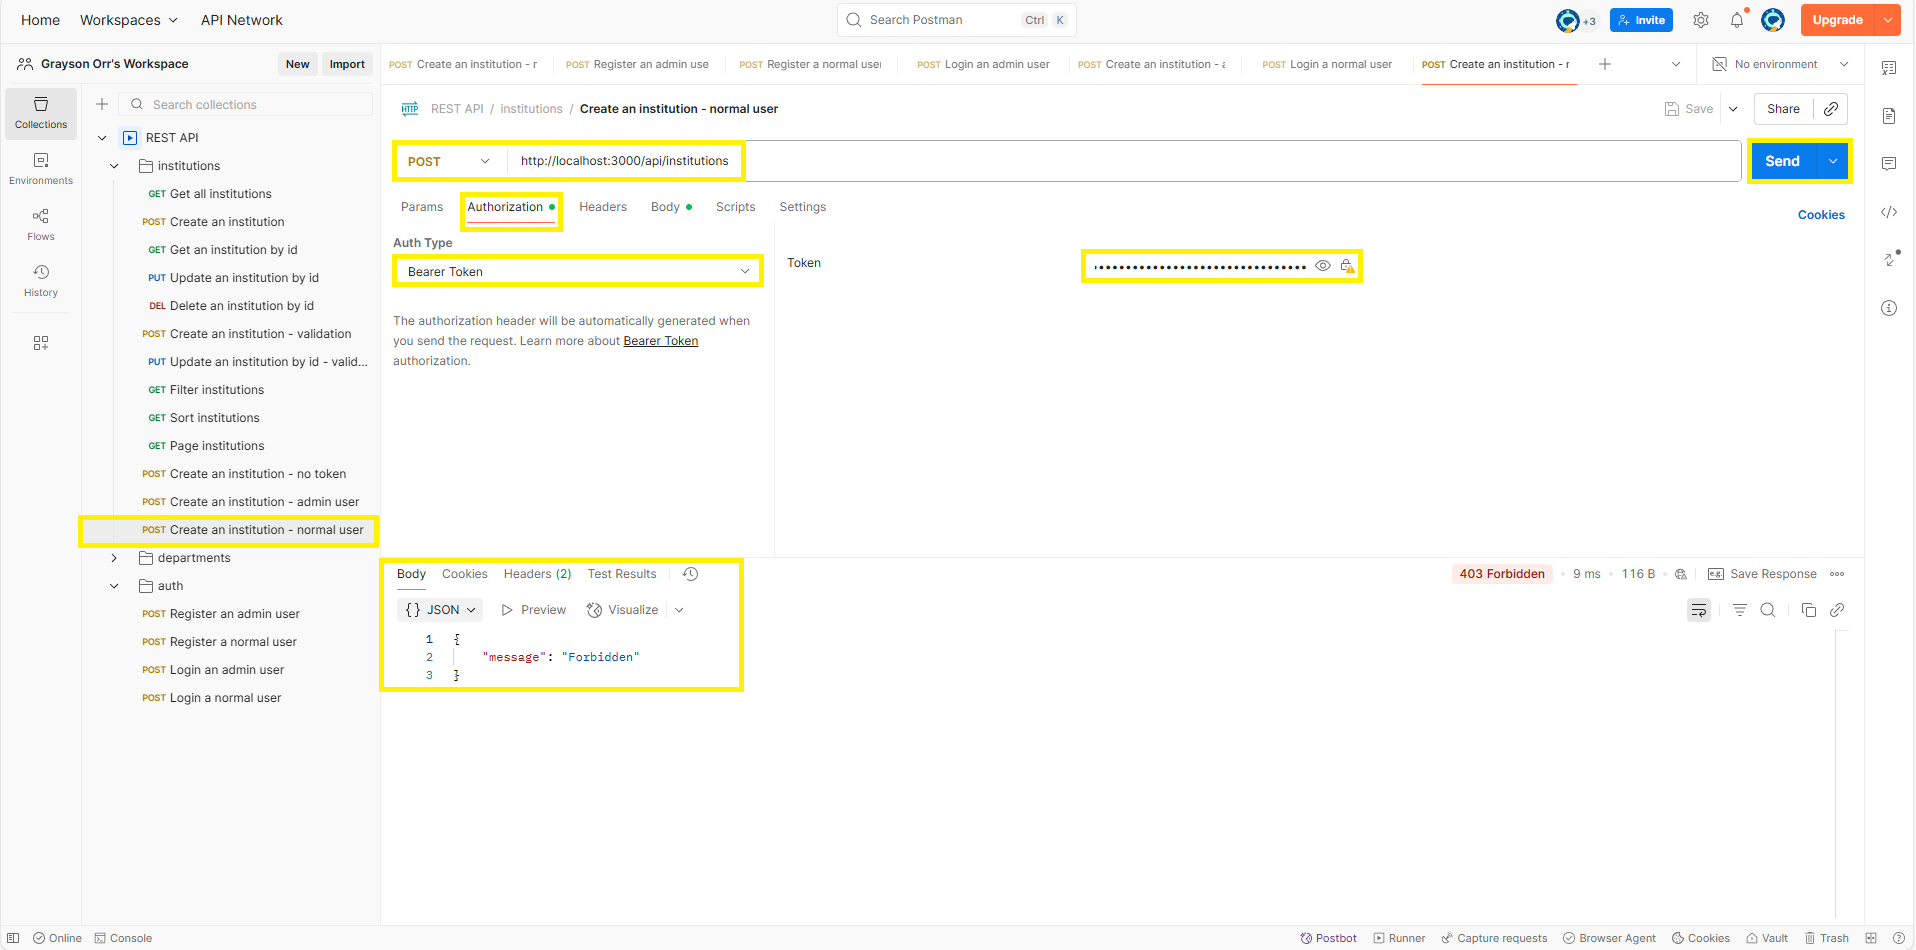
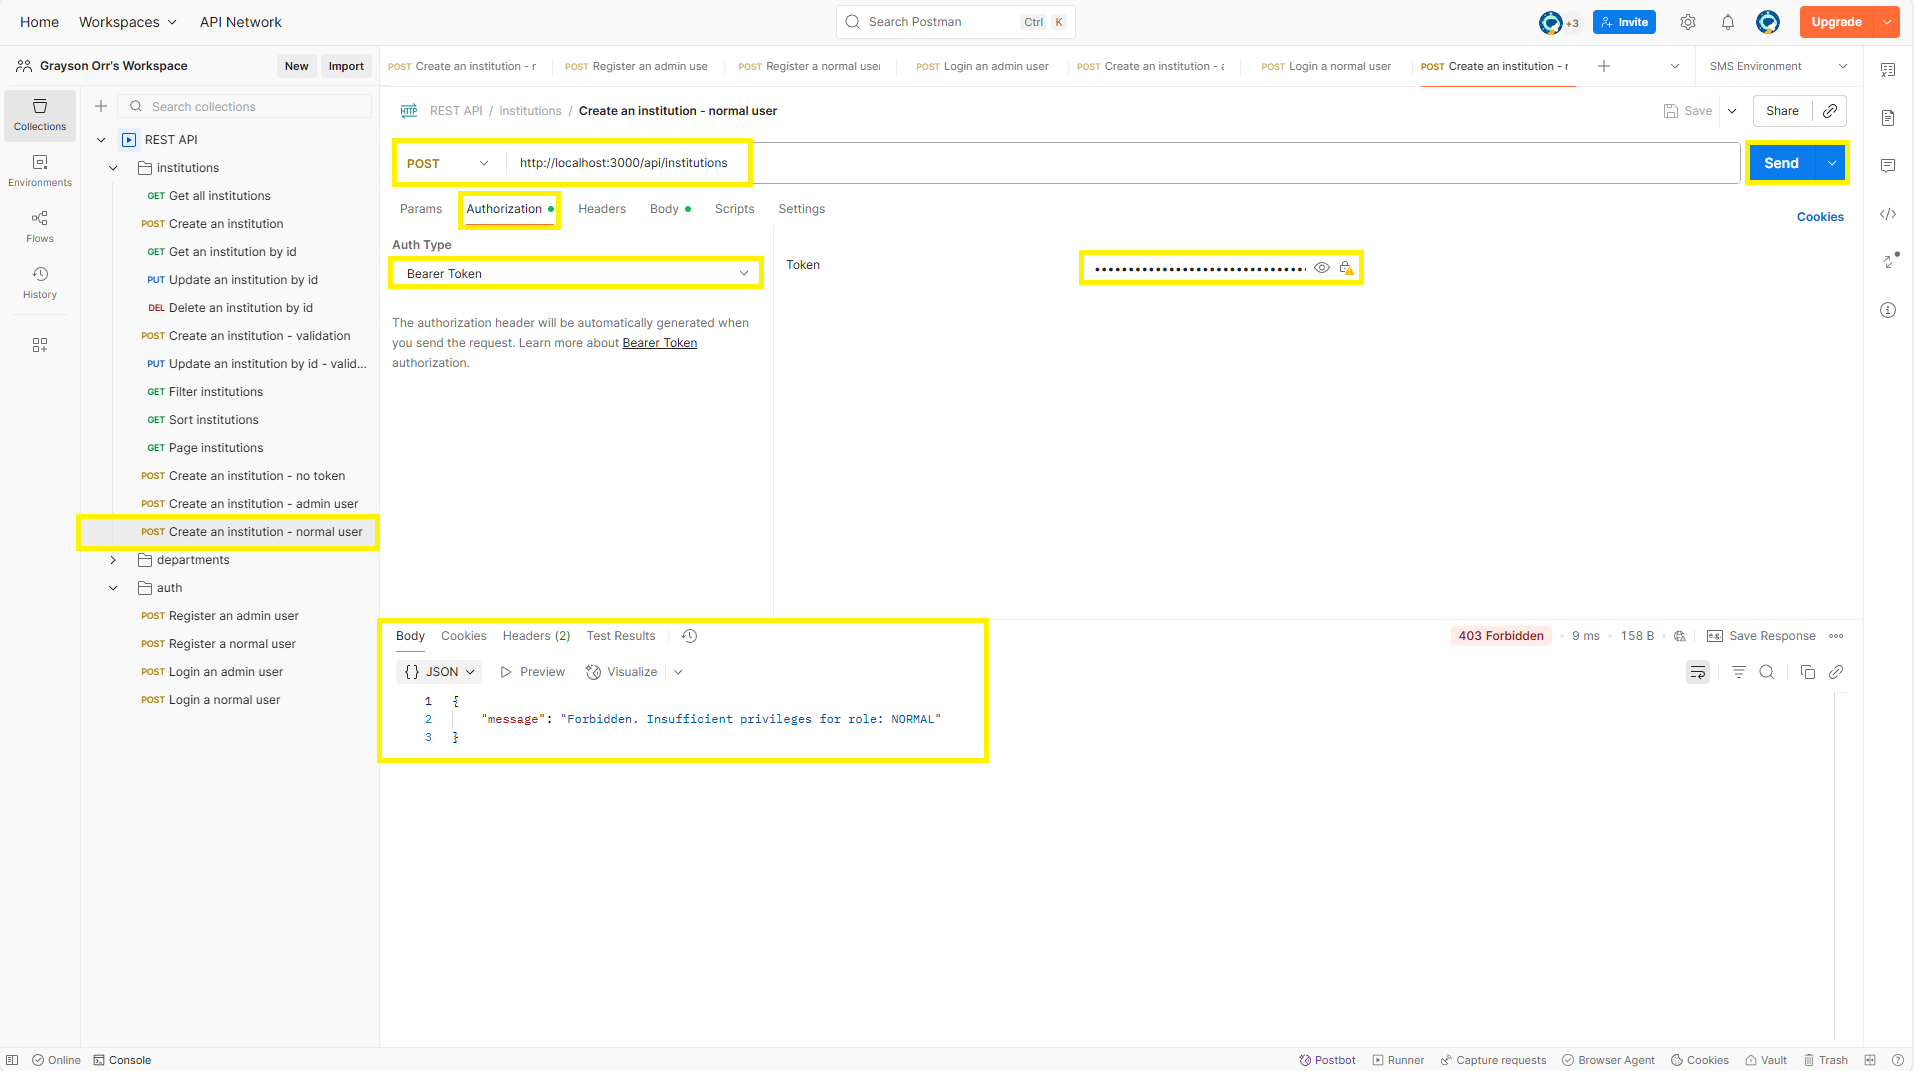
update

diff --git a/lecture-notes/week-06-common-vulnerabilities-authentication-rbac-abac-api-testing.md b/lecture-notes/week-06-common-vulnerabilities-authentication-rbac-abac-api-testing.md
@@ -385,17 +385,18 @@ In the `middleware` directory, create a new file called `rbac.js`. In the `rbac.
 ```js
 const rbac = (requiredRole) => {
   return (req, res, next) => {
+    const { user } = req;
     // Check if the user is authenticated and has a role
-    if (!req.user || !req.user.role) {
+    if (!user || !user.role) {
       return res
         .status(403)
         .json({ message: "Forbidden. User is not authenticated" });
     }
 
     // Check if the user's role matches the required role
-    if (req.user.role !== requiredRole) {
+    if (user.role !== requiredRole) {
       return res.status(403).json({
-        message: `Forbidden. Insufficient privileges for role: ${requiredRole}`,
+        message: `Forbidden. Insufficient privileges for role: ${user.role}`,
       });
     }
 
@@ -481,8 +482,9 @@ In the `middleware` directory, create a new file called `abac.js`. In the `abac.
 ```js
 const abac = (requiredAttributes) => {
   return (req, res, next) => {
+    const { user } = req;
     // Check if the user is authenticated
-    if (!req.user) {
+    if (!user) {
       return res
         .status(403)
         .json({ message: "Forbidden. User not authenticated" });
@@ -490,14 +492,14 @@ const abac = (requiredAttributes) => {
 
     for (const [key, value] of Object.entries(requiredAttributes)) {
       // Check if the user has the required attribute
-      if (!req.user[key]) {
+      if (!user[key]) {
         return res.status(403).json({
           message: `Forbidden. Missing attribute: ${key}`,
         });
       }
 
       // Check if the user's attribute matches the required value
-      if (req.user[key] !== value) {
+      if (user[key] !== value) {
         return res.status(403).json({
           message: `Forbidden. Insufficient privileges for attribute: ${key}`,
         });
